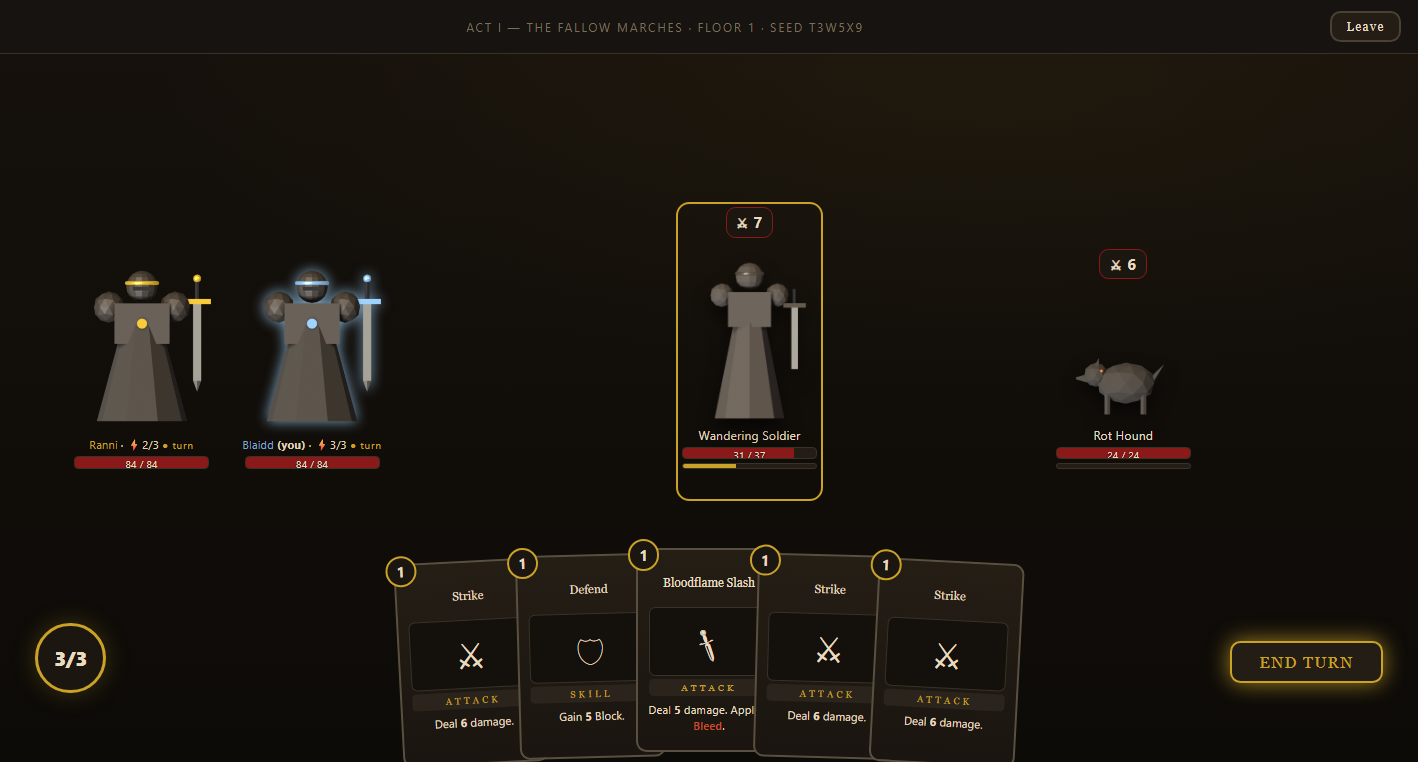
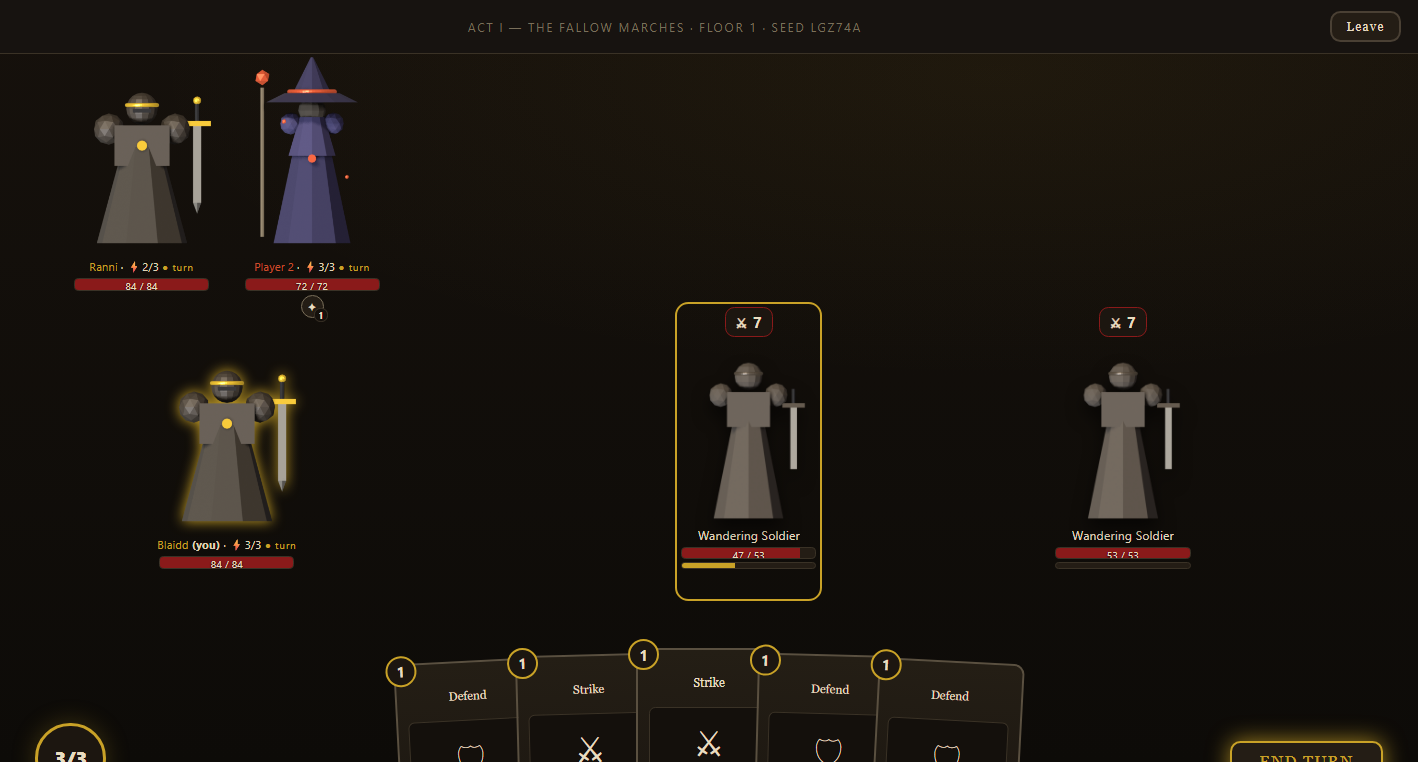
Local (couch) multiplayer — up to 4 players on one screen, mixed inputs
Several players can now share ONE screen, each with their own hero, on top of
(or instead of) LAN. Any mix of keyboard, mouse, and controllers up to 4 seats.

- Lobby: "LOCAL PARTY" editor — add up to 3 local seats riding this
  connection (name, class, accent each), so a solo host can field a full 4.
- lan.mjs: locals are real members. roster() emits a row per local seat
  (always ready); startGame seats them and tells each socket EVERY member id
  it controls (yourIds); onGameIntent honors `as` so a client acts for any
  seat it owns (server-validated); drop marks all its seats absent; resume
  re-seats them. Data-driven throughout (classes/tints from the registries).
- coop.js: multi-seat client. A fixed seat-tab bar (only when this screen owns
  2+ seats) shows each seat with its accent + a "pending" pip; Tab cycles the
  active seat; every intent carries the active seat via `as`. Couch input:
  keyboard drives the active seat (1-9/Q cards, E end turn, F/G/H flasks); each
  connected gamepad pulls the active seat to its own on first press. Fixed a
  duplicate-tab-bar bug (looked up the fixed bar inside `app`, spawning a new
  one per render).

Also in this commit: the earlier UI-zoom FX anchoring fix (fx.js
anchorLocalBox) so damage floats land on the enemy actually hit.

Verified: lan-smoke asserts couch locals over the wire (local in roster, host
owns 2 seats, `as`-routed vote); live 2-client harness 11/11 including a
[…]

diff --git a/src/ui/screens/lobby.js b/src/ui/screens/lobby.js
@@ -27,6 +27,7 @@ export function mountLobby(app, { registries, defaultSeedString, onBack, onStart
     ready: false,
     seedString: defaultSeedString,
     players: [],
+    locals: [], // couch seats riding this connection: {name, classId, tint, spriteStyle}
   };
 
   function cleanup() {
@@ -118,17 +119,17 @@ export function mountLobby(app, { registries, defaultSeedString, onBack, onStart
           renderRoom(shareAddr);
         } else if (msg.t === 'started') {
           // The server-authoritative run has begun. Hand the live socket to the
-          // co-op client (it renders snapshots; cleanup must not close it).
+          // co-op client; yourIds lists EVERY seat this screen controls (couch).
           clearInterval(pollTimer);
           const handoff = conn;
           conn = null;
-          onStart({ conn: handoff, myId, name: state.name });
+          onStart({ conn: handoff, myId, myIds: msg.yourIds || [myId], name: state.name });
         } else if (msg.t === 'resumed') {
-          // A saved run was restored; the server assigned me this member.
+          // A saved run was restored; the server assigned this screen its seats.
           clearInterval(pollTimer);
           const handoff = conn;
           conn = null;
-          onStart({ conn: handoff, myId: msg.yourId, name: state.name });
+          onStart({ conn: handoff, myId: msg.yourId, myIds: msg.yourIds || [msg.yourId], name: state.name });
         } else if (msg.t === 'hostGone') {
           cleanup();
           renderBrowse('The host left the fire.');
@@ -161,7 +162,7 @@ export function mountLobby(app, { registries, defaultSeedString, onBack, onStart
             <div class="slot occupied" style="padding:10px 14px">
               <div class="slot-info">
                 <span class="slot-title">${p.isHost ? '⚑ ' : ''}${esc(p.name)}${p.id === myId ? ' (you)' : ''}</span>
-                <span class="slot-meta">${p.classId ? esc(registries.classes.get(p.classId).name) : 'choosing…'}${p.isHost ? ' · host' : p.ready ? ' · READY' : ' · not ready'}</span>
+                <span class="slot-meta">${p.classId ? esc(registries.classes.get(p.classId).name) : 'choosing…'}${p.isLocal ? ' · 💺 local seat' : p.isHost ? ' · host' : p.ready ? ' · READY' : ' · not ready'}</span>
               </div>
               <span style="font-size:26px;color:${tintCss(p.tint)}">${p.classId ? classGlyph(p.classId) : '…'}</span>
             </div>`).join('')}
@@ -169,6 +170,11 @@ export function mountLobby(app, { registries, defaultSeedString, onBack, onStart
         <div><p class="cz-label">YOUR CLASS</p><div id="lb-classes" class="class-row" style="flex-wrap:wrap;justify-content:center"></div></div>
         <div><p class="cz-label">YOUR ACCENT</p><div id="lb-tints" class="lb-tints"></div></div>
         <div><p class="cz-label">SPRITE</p><div id="lb-styles" class="lb-tints"></div></div>
+        <div style="width:min(460px,92%)"><p class="cz-label">LOCAL PARTY — MORE PLAYERS ON THIS SCREEN</p>
+          <div id="lb-locals" style="display:flex;flex-direction:column;gap:6px"></div>
+          <button class="subtle" id="lb-addlocal" style="margin-top:6px">＋ ADD LOCAL PLAYER</button>
+          <p class="set-note">Each local player gets their own hero. Keyboard/mouse drive the active seat (Tab switches); each connected controller drives its own seat.</p>
+        </div>
         ${iAmHost
           ? `<div id="lb-resume-wrap"></div>
              <div class="seed-line">Seed <input id="lb-seed" maxlength="10" spellcheck="false" value="${esc(state.seedString)}"></div>
@@ -231,6 +237,44 @@ export function mountLobby(app, { registries, defaultSeedString, onBack, onStart
       });
       styles.appendChild(b);
     }
+    // ---- local (couch) party editor ----
+    const sendLocals = () => conn.send({ t: 'locals', locals: state.locals });
+    const localsBox = app.querySelector('#lb-locals');
+    const classList = registries.classes.all();
+    const renderLocals = () => {
+      localsBox.innerHTML = '';
+      state.locals.forEach((lp, i) => {
+        const row = document.createElement('div');
+        row.style.cssText = 'display:flex;gap:8px;align-items:center;';
+        row.innerHTML = `
+          <input class="ll-name" maxlength="14" spellcheck="false" value="${esc(lp.name)}" style="width:110px;background:var(--panel);border:1px solid var(--line);color:var(--parchment);border-radius:6px;padding:4px 8px">
+          <button class="subtle ll-class" style="min-width:100px">${classGlyph(lp.classId)} ${esc(classList.find((c) => c.id === lp.classId).name)}</button>
+          <button class="tint-dot ll-tint" style="background:${tintCss(lp.tint)}"></button>
+          <button class="subtle ll-del" title="Remove">✕</button>`;
+        row.querySelector('.ll-name').addEventListener('input', (e) => { lp.name = e.target.value.trim() || `Player ${i + 2}`; sendLocals(); });
+        row.querySelector('.ll-class').addEventListener('click', () => {
+          const ci = classList.findIndex((c) => c.id === lp.classId);
+          lp.classId = classList[(ci + 1) % classList.length].id;
+          renderLocals(); sendLocals();
+        });
+        row.querySelector('.ll-tint').addEventListener('click', () => {
+          const ti = PORTRAIT_TINTS.findIndex((x) => x.id === lp.tint);
+          lp.tint = PORTRAIT_TINTS[(ti + 1) % PORTRAIT_TINTS.length].id;
+          renderLocals(); sendLocals();
+        });
+        row.querySelector('.ll-del').addEventListener('click', () => { state.locals.splice(i, 1); renderLocals(); sendLocals(); });
+        localsBox.appendChild(row);
+      });
+    };
+    renderLocals();
+    const addBtn = app.querySelector('#lb-addlocal');
+    addBtn.disabled = state.players.length + 0 >= 4 || state.locals.length >= 3;
+    addBtn.addEventListener('click', () => {
+      if (state.players.length >= 4 || state.locals.length >= 3) return;
+      const n = state.locals.length + 2;
+      state.locals.push({ name: `Player ${n}`, classId: classList[(n - 1) % classList.length].id, tint: PORTRAIT_TINTS[(n - 1) % PORTRAIT_TINTS.length].id, spriteStyle: 'rendered' });
+      renderLocals(); sendLocals();
+    });
     app.querySelector('#lb-leave').addEventListener('click', () => back());
     if (iAmHost) {
       app.querySelector('#lb-seed').addEventListener('change', (e) => {

diff --git a/styles/ui.css b/styles/ui.css
@@ -446,3 +446,16 @@ input[type='range'].set-range { width: 120px; accent-color: var(--gold); cursor:
   35% { transform: translateX(-22px) scale(1.05); filter: brightness(1.3); }
   100% { transform: translateX(0); }
 }
+
+/* co-op: couch-party seat tabs (shown only when this screen owns 2+ seats) */
+.coop-seat-tabs {
+  position: fixed; left: 50%; bottom: 46px; transform: translateX(-50%);
+  display: flex; gap: 8px; align-items: center; z-index: 620;
+}
+.seat-tab {
+  padding: 5px 12px; font-size: 12px; border-radius: 7px;
+  background: rgba(16,13,10,.9); border: 1.5px solid var(--line-soft); color: #ded1b6;
+}
+.seat-tab.on { background: #2a2418; color: var(--gold); box-shadow: 0 0 10px rgba(201,162,39,.35); }
+.seat-tab .pip { color: var(--gold); }
+.seat-hint { color: var(--muted); font-size: 10px; letter-spacing: .1em; border: 1px solid var(--line-soft); border-radius: 4px; padding: 1px 6px; }

diff --git a/src/ui/screens/coop.js b/src/ui/screens/coop.js
@@ -76,7 +76,10 @@ export function mountCoop(app, { registries, conn, myId, myIds, onLeave }) {
 
   function renderSeatTabs() {
     if (seats.length < 2) return;
-    const host = app.querySelector('.coop-seat-tabs') || (() => {
+    // The tab bar lives on document.body (a fixed overlay), so look it up there
+    // — querying inside `app` never finds it and would spawn a duplicate per
+    // render (stacking stale seat tabs).
+    const host = document.querySelector('.coop-seat-tabs') || (() => {
       const d = document.createElement('div');
       d.className = 'coop-seat-tabs';
       document.body.appendChild(d);

diff --git a/build/EldenSpire.html b/build/EldenSpire.html
@@ -15827,7 +15827,10 @@ function mountCoop(app, { registries, conn, myId, myIds, onLeave }) {
 
   function renderSeatTabs() {
     if (seats.length < 2) return;
-    const host = app.querySelector('.coop-seat-tabs') || (() => {
+    // The tab bar lives on document.body (a fixed overlay), so look it up there
+    // — querying inside `app` never finds it and would spawn a duplicate per
+    // render (stacking stale seat tabs).
+    const host = document.querySelector('.coop-seat-tabs') || (() => {
       const d = document.createElement('div');
       d.className = 'coop-seat-tabs';
       document.body.appendChild(d);

diff --git a/src/main.js b/src/main.js
@@ -212,9 +212,9 @@ function showLobby() {
     registries,
     defaultSeedString: randomSeedString(),
     onBack: () => showTitle(),
-    onStart: ({ conn, myId }) => {
+    onStart: ({ conn, myId, myIds }) => {
       inCoop = true;
-      mountCoop(app, { registries, conn, myId, onLeave: () => showTitle() });
+      mountCoop(app, { registries, conn, myId, myIds, onLeave: () => showTitle() });
     },
   });
 }
